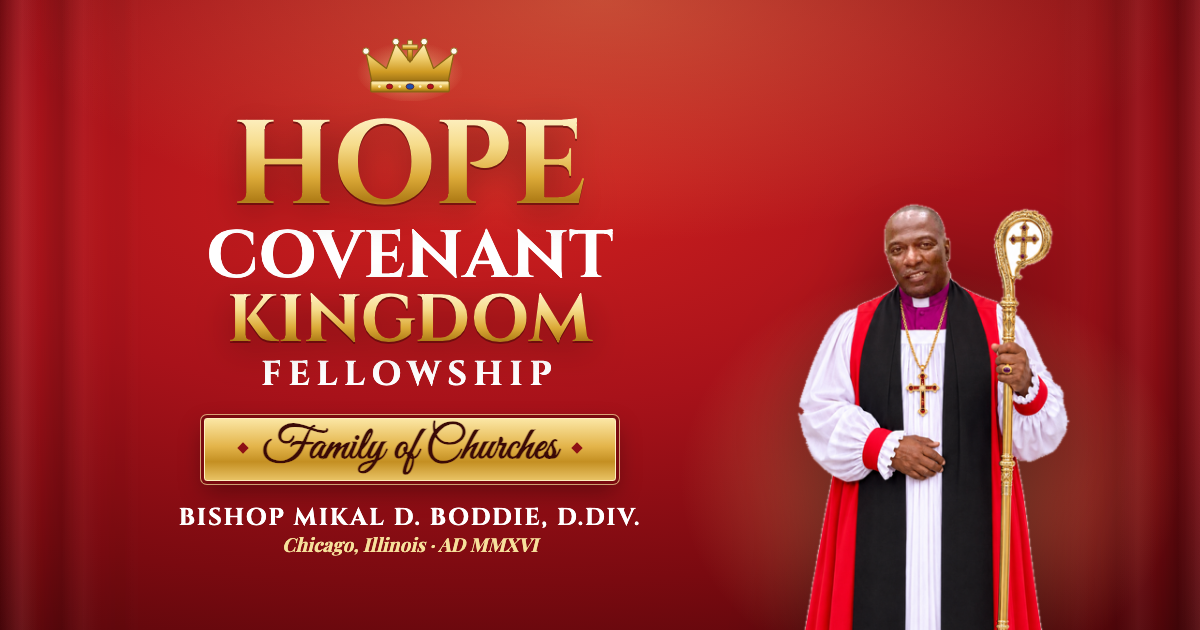
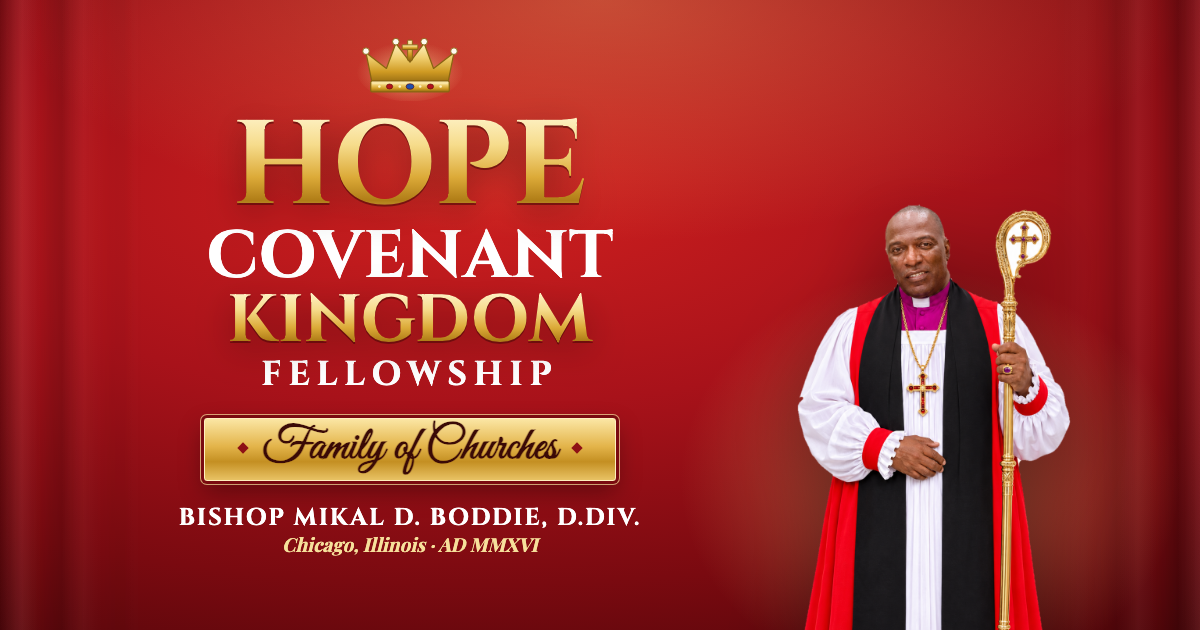
Go live on www.hopeckf-international.org; HD hero photo
- siteUrl is now the church's own domain (canonical + indexable)
- demo tracking script removed (site is live on its own domain)
- hero portrait enhanced to 1024x1536 via ChatGPT, verified against the
  original, re-cut from its white background; og.png regenerated

diff --git a/src/app/page.tsx b/src/app/page.tsx
@@ -76,8 +76,8 @@ export default function Home() {
             <Image
               src="/photos/bishop-crosier.png"
               alt="Bishop Mikal D. Boddie, D.Div., in choir dress — rochet, scarlet chimere, black tippet and pectoral cross — holding his crosier"
-              width={427}
-              height={640}
+              width={1024}
+              height={1536}
               priority
               sizes="(min-width: 768px) 440px, 78vw"
               className="relative w-[min(78vw,340px)] md:w-[440px] drop-shadow-[0_24px_40px_rgba(0,0,0,0.45)]"

diff --git a/src/lib/site.ts b/src/lib/site.ts
@@ -25,7 +25,8 @@
  * flyer (an `events` entry; drops off after the date). Nothing else.
  */
 
-export const siteUrl = process.env.NEXT_PUBLIC_SITE_URL || "https://hopecovenantchicago.elijahdesent.com";
+/** Live on its own domain since Nov 16, 2026 (www is the main address; the bare domain and the old demo address redirect here). */
+export const siteUrl = process.env.NEXT_PUBLIC_SITE_URL || "https://www.hopeckf-international.org";
 
 /**
  * Preview hosts stay out of search. Once NEXT_PUBLIC_SITE_URL is set to the

diff --git a/src/app/layout.tsx b/src/app/layout.tsx
@@ -92,8 +92,6 @@ export default function RootLayout({ children }: { children: React.ReactNode }) 
         <Footer />
         <Reveal />
         <script type="application/ld+json" dangerouslySetInnerHTML={{ __html: JSON.stringify(jsonLd) }} />
-        {/* Demo tracking (CRM → Demo Tracking). Remove at go-live. */}
-        <script async src="https://www.elijahdesent.com/demo.js" />
       </body>
     </html>
   );

diff --git a/README.md b/README.md
@@ -7,7 +7,10 @@ particular feature, so the site was built around the three things the fellowship
 every week — teaching, gathering, and reaching the neighbourhood — with giving and a prayer line
 one tap away.
 
-Preview: https://hopecovenantchicago.elijahdesent.com (hidden from search engines; see "Going live").
+Live: https://www.hopeckf-international.org (since Nov 16, 2026). Registered by Eli on Amazon Registrar
+(`greengreen` profile, auto-renew, privacy on; Route 53 zone Z00678081JJDZXVVY5L6J: A @ 216.150.1.1 /
+216.150.16.1, CNAME www → b3a2d6aba63eab07.vercel-dns-016.com). www is the main address; the bare
+domain and hopecovenantchicago.elijahdesent.com 308 to it. The demo tracking script is removed — never re-add it.
 
 ## Read this before editing (for people and AI assistants)
 
@@ -94,7 +97,8 @@ Everything below went onto the site from one source, or is missing. Please check
    `events` in `site.ts` if either is wrong.
 6. **Photographs.** There are no photographs of the building, the congregation or a service
    anywhere online. Bishop Boddie sent portraits by email on Nov 16, 2026: choir dress with the
-   crosier (`bishop-crosier.png`, home hero and `og.png`; cut out of its white background here),
+   crosier (`bishop-crosier.png`, home hero and `og.png`; enhanced to 1024×1536 through ChatGPT on Eli's
+   request, Nov 16, 2026, checked face/hands/crosier against the 427px original, then cut out here),
    cassock and mozzetta (`bishop-mozzetta.png`, About), gold-embroidered navy jacket
    (`bishop-embroidered.png`, About header; cut out here), green plaid (`bishop-green-plaid.png`,
    home broadcast section), his study (`bishop-study.png`, Teaching), cream suit
